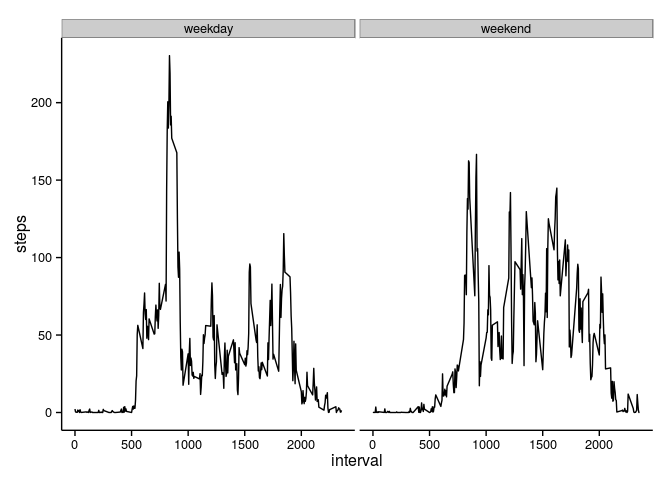
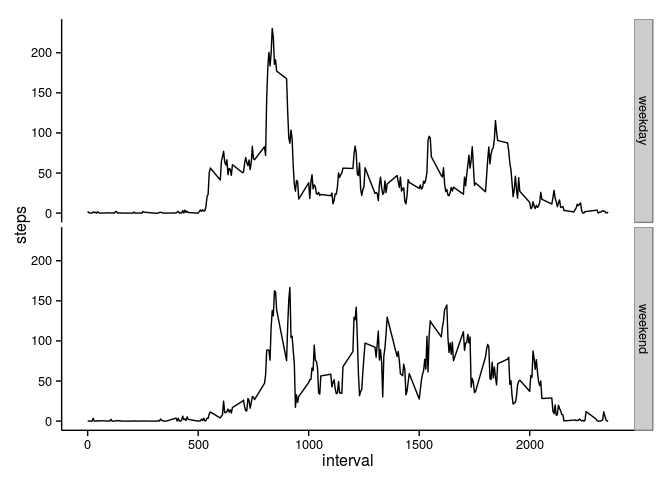
stacked last panel graph vertically

diff --git a/PA1_template.html b/PA1_template.html
@@ -139,9 +139,9 @@ hist(stepspd2,xlab=&quot;Steps per day&quot;,main=&quot;&quot;)</code></pre>
 <pre class="r"><code>df2$wkdayend &lt;- ifelse(weekdays(df2$date) %in% c(&quot;Saturday&quot;,&quot;Sunday&quot;),&quot;weekend&quot;,&quot;weekday&quot;)</code></pre>
 <p>We now plot the daily activity plot, however this time with <em>ggplot</em> and conditioned on the <em>wkdayend</em> factor.</p>
 <pre class="r"><code>library(ggplot2)
-q &lt;- qplot(interval,steps,data=df2,geom = &quot;line&quot;, stat=&quot;summary&quot;, fun.y = &quot;mean&quot;,facets = . ~ wkdayend)
+q &lt;- qplot(interval,steps,data=df2,geom = &quot;line&quot;, stat=&quot;summary&quot;, fun.y = &quot;mean&quot;,facets = wkdayend ~ .)
 q + theme_classic()</code></pre>
[2 lines of base64/hex data omitted]
 <p>We see that the peak at interval 835 is even more pronounced on weekdays, with weekends seeing a far more even distribution.</p>
 </div>
 

diff --git a/PA1_template.md b/PA1_template.md
@@ -165,7 +165,7 @@ We now plot the daily activity plot, however this time with *ggplot* and conditi
 
 ```r
 library(ggplot2)
-q <- qplot(interval,steps,data=df2,geom = "line", stat="summary", fun.y = "mean",facets = . ~ wkdayend)
+q <- qplot(interval,steps,data=df2,geom = "line", stat="summary", fun.y = "mean",facets = wkdayend ~ .)
 q + theme_classic()
 ```
 
